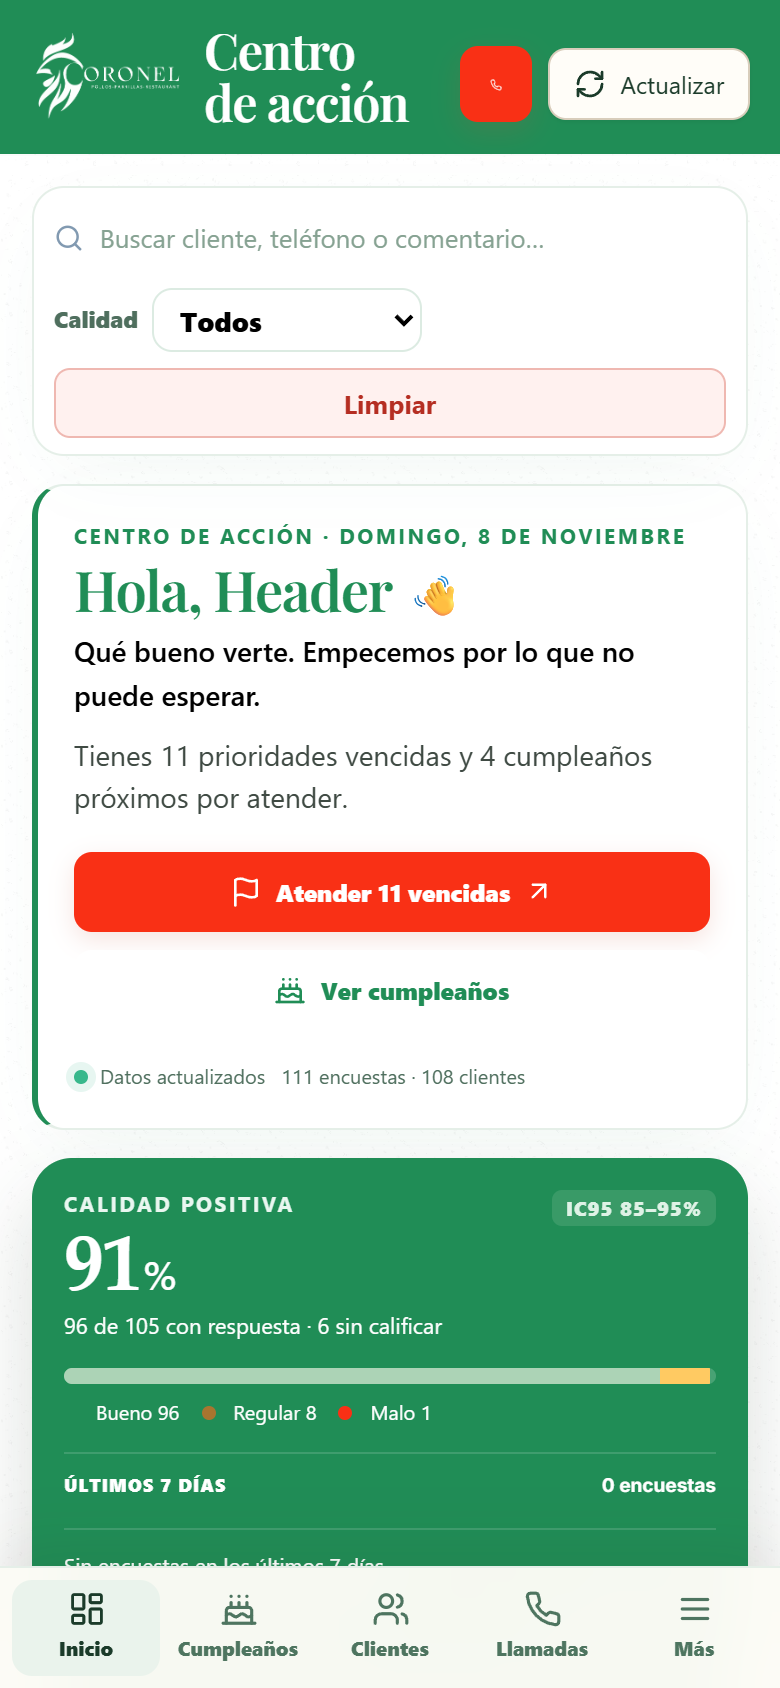
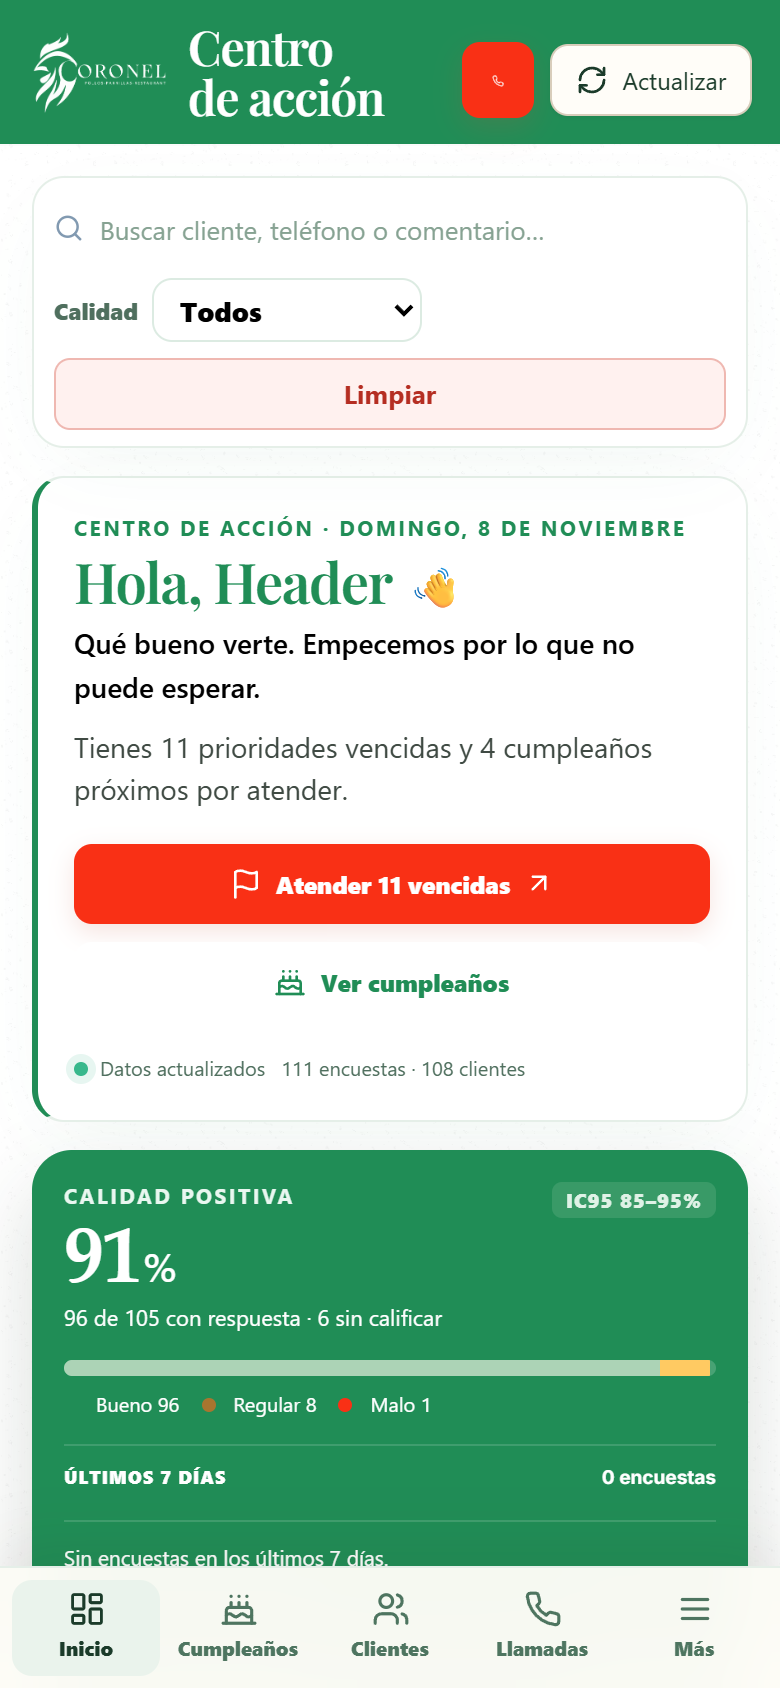
Evitar truncado del titulo en header

diff --git a/client/src/index.css b/client/src/index.css
@@ -4129,3 +4129,38 @@ body::before {
   .topbar .top-actions { flex: 0 1 auto; }
   .topbar .topbar-data-line, .topbar .breadcrumb { display: none !important; }
 }
+
+/* Topbar flexible: nunca truncar el nombre de la sección */
+.topbar {
+  display: flex !important;
+  flex-wrap: wrap !important;
+  align-items: center !important;
+  grid-template-columns: none !important;
+  gap: 12px !important;
+  padding: 13px 26px !important;
+  min-height: 84px;
+}
+.topbar-copy { flex: 1 1 270px !important; min-width: 0 !important; }
+.topbar h1 {
+  white-space: normal !important;
+  overflow: visible !important;
+  text-overflow: clip !important;
+  font-size: 28px !important;
+  line-height: 1.05 !important;
+}
+.topbar .topbar-data-line { white-space: normal !important; overflow: visible !important; text-overflow: clip !important; }
+.top-actions { margin-left: auto !important; flex: 0 1 auto !important; flex-wrap: wrap !important; justify-content: flex-end !important; gap: 8px !important; }
+.comment-modal-count { color: #000000 !important; font-size: 13px !important; font-weight: 600 !important; }
+@media (max-width: 1100px) {
+  .topbar { padding: 12px 18px !important; gap: 9px !important; }
+  .topbar-copy { flex-basis: 190px !important; }
+  .top-actions { margin-left: 0 !important; }
+}
+@media (max-width: 760px) {
+  .topbar { display: flex !important; flex-wrap: wrap !important; padding: 10px 14px !important; gap: 7px !important; }
+  .topbar-copy { flex-basis: 115px !important; }
+  .topbar h1 { font-size: 23px !important; }
+  .topbar-logo { width: 68px !important; }
+  .top-actions { flex: 0 1 auto !important; margin-left: auto !important; }
+  .topbar .topbar-data-line, .topbar .breadcrumb { display: none !important; }
+}

diff --git a/client/src/pages/Home.tsx b/client/src/pages/Home.tsx
@@ -9090,7 +9090,7 @@ function Voice({
                 <h3>
                   Comentarios con <strong>“{selected.word}”</strong>
                 </h3>
-                <p className="muted">
+                <p className="muted comment-modal-count">
                   {selected.count} mención(es) encontrada(s).
                 </p>
               </div>
